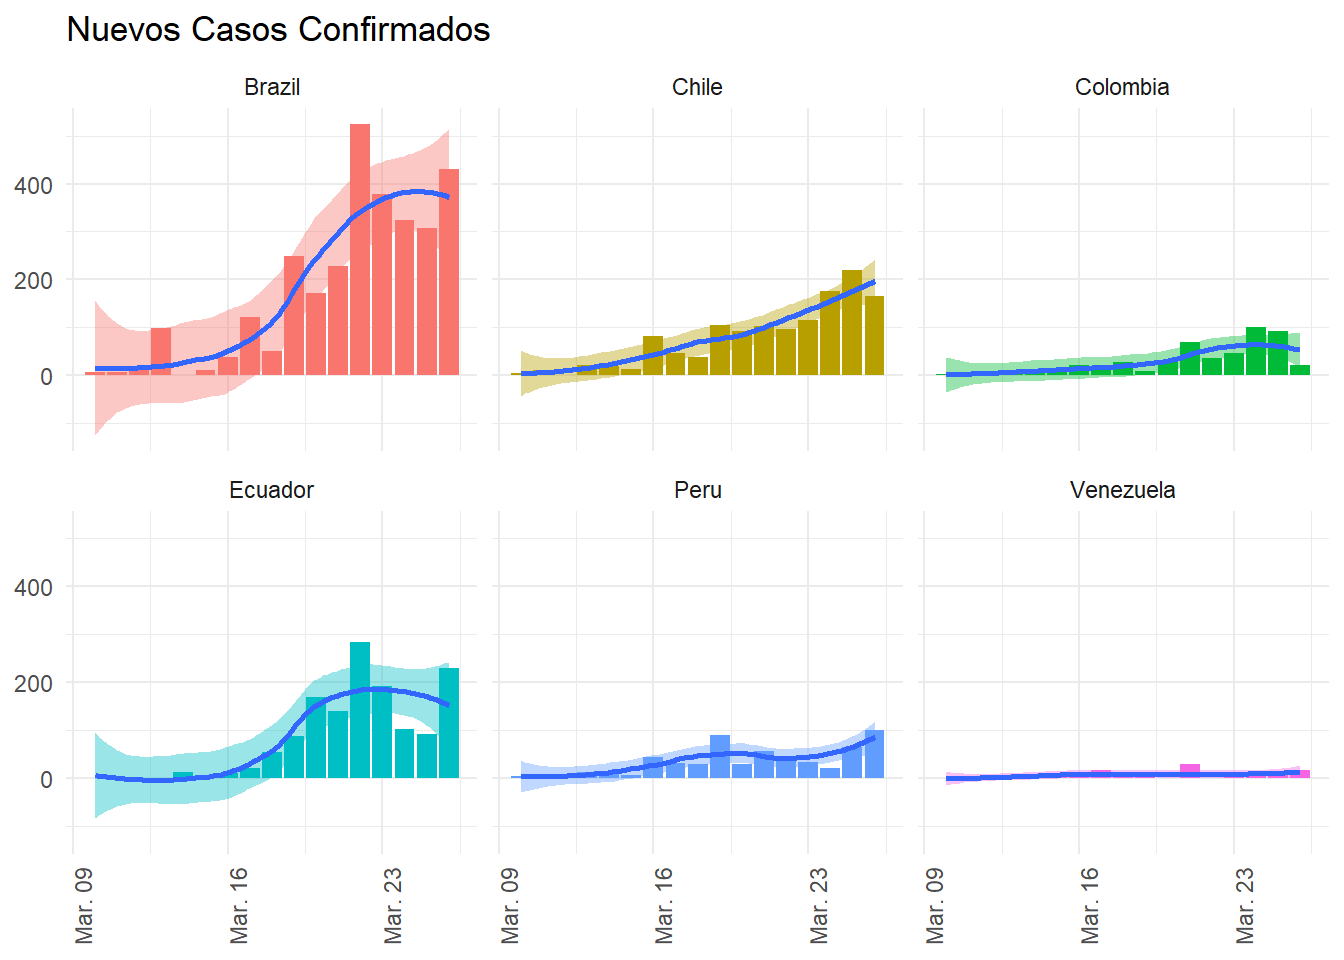
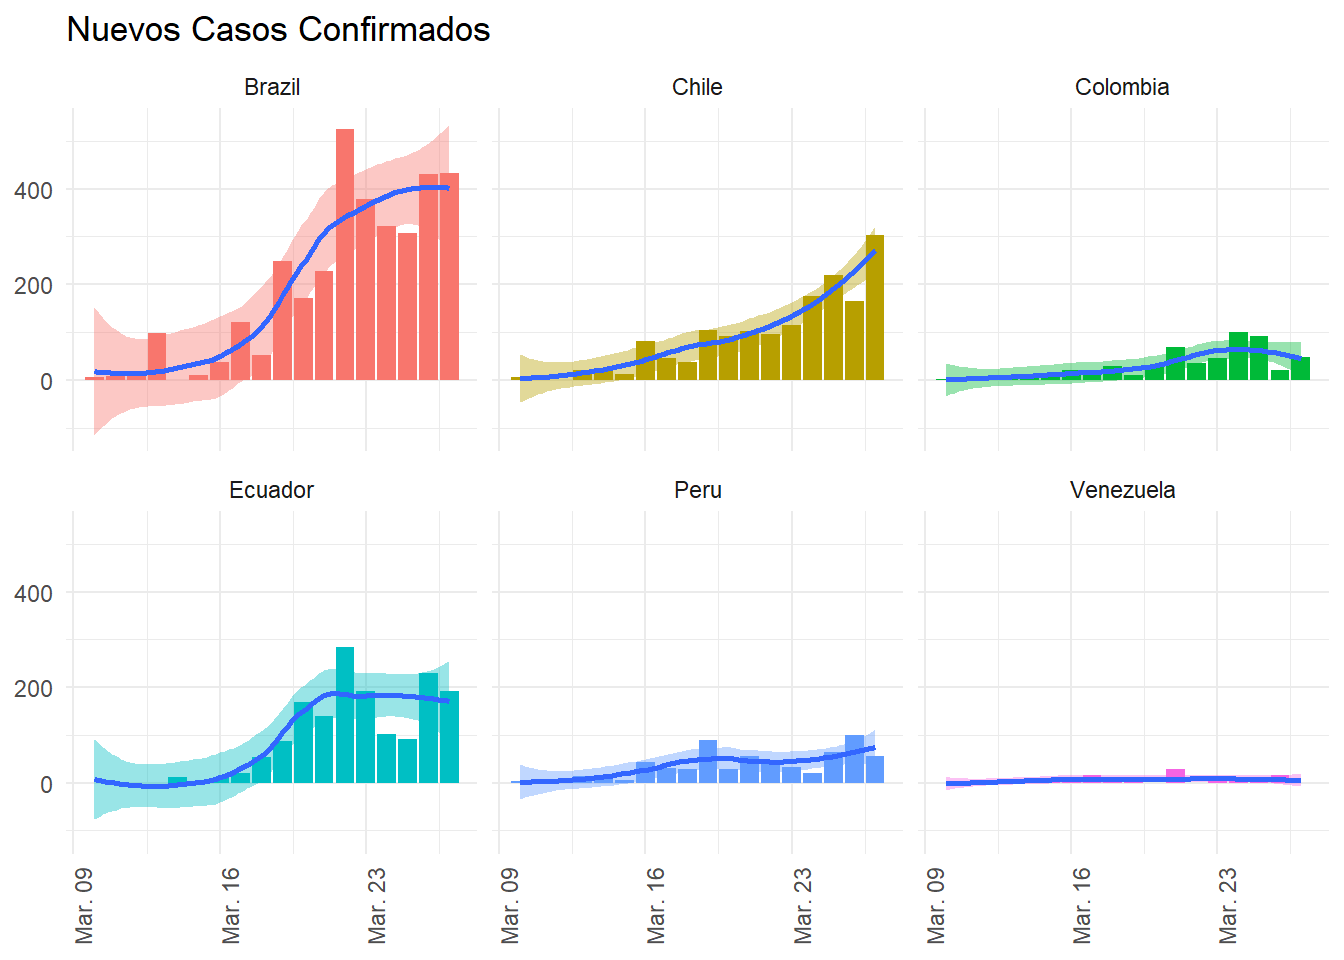
Source JH

diff --git a/index.html b/index.html
@@ -304,7 +304,7 @@ $(document).ready(function () {
 <h1>COVID-19</h1>
 <p>Información tomada del GitHub de la Universidad Johns Hopkins, US:<br />
 <a href="https://github.com/CSSEGISandData/COVID-19/tree/master/csse_covid_19_data" class="uri">https://github.com/CSSEGISandData/COVID-19/tree/master/csse_covid_19_data</a></p>
-<pre><code>## [1] Fecha de último reporte: 2020-03-26</code></pre>
+<pre><code>## [1] Fecha de último reporte: 2020-03-27</code></pre>
 <table class="table table-striped table-hover table-condensed" style="margin-left: auto; margin-right: auto;">
 <thead>
 <tr>
@@ -340,86 +340,57 @@ Death.Rate
 <tbody>
 <tr>
 <td style="text-align:center;">
-2020-03-26
+2020-03-27
 </td>
 <td style="text-align:right;">
 Brazil
 </td>
 <td style="text-align:center;">
-2985
+3417
 </td>
 <td style="text-align:center;">
 6
 </td>
 <td style="text-align:center;">
-77
+92
 </td>
 <td style="text-align:center;">
-431
+432
 </td>
 <td style="text-align:center;">
-2902
+3319
 </td>
 <td style="text-align:right;">
-0.200%
+0.180%
 </td>
 <td style="text-align:center;">
-2.58%
+2.69%
 </td>
 </tr>
 <tr>
 <td style="text-align:center;">
-2020-03-26
-</td>
-<td style="text-align:right;">
-Ecuador
-</td>
-<td style="text-align:center;">
-1403
-</td>
-<td style="text-align:center;">
-3
-</td>
-<td style="text-align:center;">
-34
-</td>
-<td style="text-align:center;">
-230
-</td>
-<td style="text-align:center;">
-1366
-</td>
-<td style="text-align:right;">
-0.210%
-</td>
-<td style="text-align:center;">
-2.42%
-</td>
-</tr>
-<tr>
-<td style="text-align:center;">
-2020-03-26
+2020-03-27
 </td>
 <td style="text-align:right;">
 Chile
 </td>
 <td style="text-align:center;">
-1306
+1610
 </td>
 <td style="text-align:center;">
-22
+43
 </td>
 <td style="text-align:center;">
-4
+5
 </td>
 <td style="text-align:center;">
-164
+304
 </td>
 <td style="text-align:center;">
-1280
+1562
 </td>
 <td style="text-align:right;">
-1.68%
+2.67%
 </td>
 <td style="text-align:center;">
 0.310%
@@ -427,65 +398,94 @@ Chile
 </tr>
 <tr>
 <td style="text-align:center;">
-2020-03-26
+2020-03-27
+</td>
+<td style="text-align:right;">
+Ecuador
+</td>
+<td style="text-align:center;">
+1595
+</td>
+<td style="text-align:center;">
+3
+</td>
+<td style="text-align:center;">
+36
+</td>
+<td style="text-align:center;">
+192
+</td>
+<td style="text-align:center;">
+1556
+</td>
+<td style="text-align:right;">
+0.190%
+</td>
+<td style="text-align:center;">
+2.26%
+</td>
+</tr>
+<tr>
+<td style="text-align:center;">
+2020-03-27
 </td>
 <td style="text-align:right;">
 Peru
 </td>
 <td style="text-align:center;">
-580
+635
 </td>
 <td style="text-align:center;">
-14
+16
 </td>
 <td style="text-align:center;">
-9
+11
 </td>
 <td style="text-align:center;">
-100
+55
 </td>
 <td style="text-align:center;">
-557
+608
 </td>
 <td style="text-align:right;">
-2.41%
+2.52%
 </td>
 <td style="text-align:center;">
-1.55%
+1.73%
 </td>
 </tr>
 <tr>
 <td style="text-align:center;">
-2020-03-26
+2020-03-27
 </td>
 <td style="text-align:right;">
 Colombia
 </td>
 <td style="text-align:center;">
-491
+539
 </td>
 <td style="text-align:center;">
-8
+10
 </td>
 <td style="text-align:center;">
 6
 </td>
 <td style="text-align:center;">
-21
+48
 </td>
 <td style="text-align:center;">
-477
+523
 </td>
 <td style="text-align:right;">
-1.63%
+1.86%
 </td>
 <td style="text-align:center;">
-1.22%
+1.11%
 </td>
 </tr>
 <tr>
 <td style="text-align:center;">
-2020-03-26
+2020-03-27
 </td>
 <td style="text-align:right;">
 Venezuela
@@ -494,22 +494,22 @@ Venezuela
 107
 </td>
 <td style="text-align:center;">
-15
+31
+</td>
+<td style="text-align:center;">
+1
 </td>
 <td style="text-align:center;">
 0
 </td>
 <td style="text-align:center;">
-16
-</td>
-<td style="text-align:center;">
-92
+75
 </td>
 <td style="text-align:right;">
-14.0%
+29.0%
 </td>
 <td style="text-align:center;">
-0%
+0.930%
 </td>
 </tr>
 </tbody>
